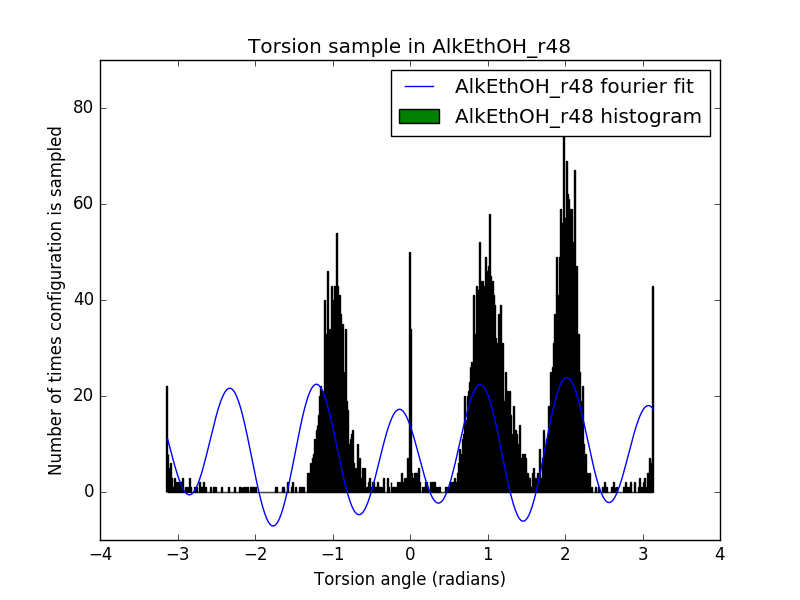
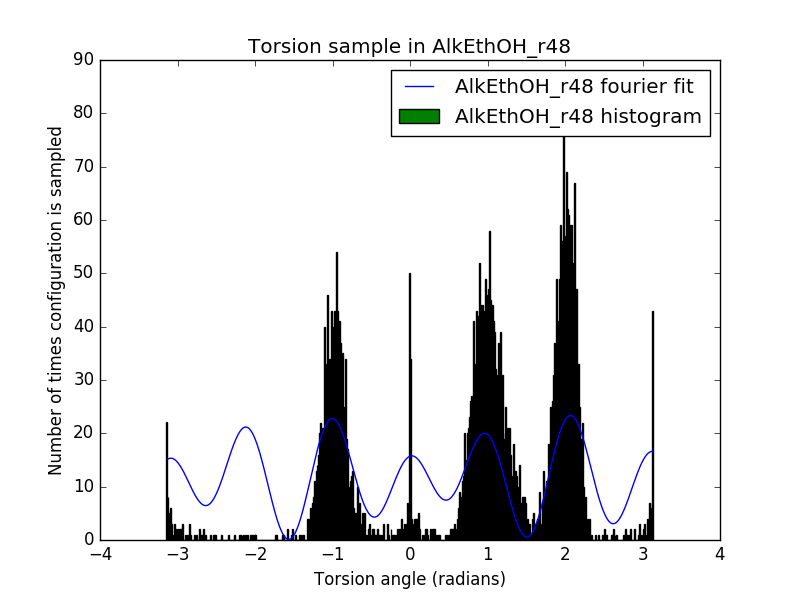
increase phase

diff --git a/single-molecule-property-generation/least_squares_fit_example.py b/single-molecule-property-generation/least_squares_fit_example.py
@@ -328,9 +328,9 @@ def readtraj(ncfiles):
 #------------------------------------------------------------------
 phase = np.pi/3.
 def fourier(x, *a):
-    ret =  a[0] * (np.sin(2*np.pi*x / a[1] + 2.0))**2 + \
-           a[2] * (np.sin(2*np.pi*x / a[3] + 2.0))**2 + \
-           a[4] * (np.sin(2*np.pi*x / a[5] + 2.0))**2 # \
+    ret =  a[0] * (np.sin(2*np.pi*x / a[1] + a[2]))**2 + \
+           a[3] * (np.sin(2*np.pi*x / a[4] + a[5]))**2 + \
+           a[6] * (np.sin(2*np.pi*x / a[7] + a[8]))**2 # \
            #[9]
            #a[6] * (np.sin(2*np.pi*x / a[7] + phase))**2 + \
            #a[8] * (np.sin(2*np.pi*x / a[9] + phase))**2 + \
@@ -513,7 +513,7 @@ plt.figure()
 #	if j==0.:
 #           n1[i]=5.
 
-popt, pcov = sci.curve_fit(fourier, bins1[1:], n1, [5.0,3.0]*3 , maxfev=100000)
+popt, pcov = sci.curve_fit(fourier, bins1[1:], n1, [5.0,3.0,10.0]*3 , maxfev=100000)
 plt.plot(bins1[1:],fourier(bins1[1:],*popt),label='AlkEthOH_r48 fourier fit')
 plt.ylabel('Number of times configuration is sampled')
 plt.xlabel('Torsion angle (radians)')
